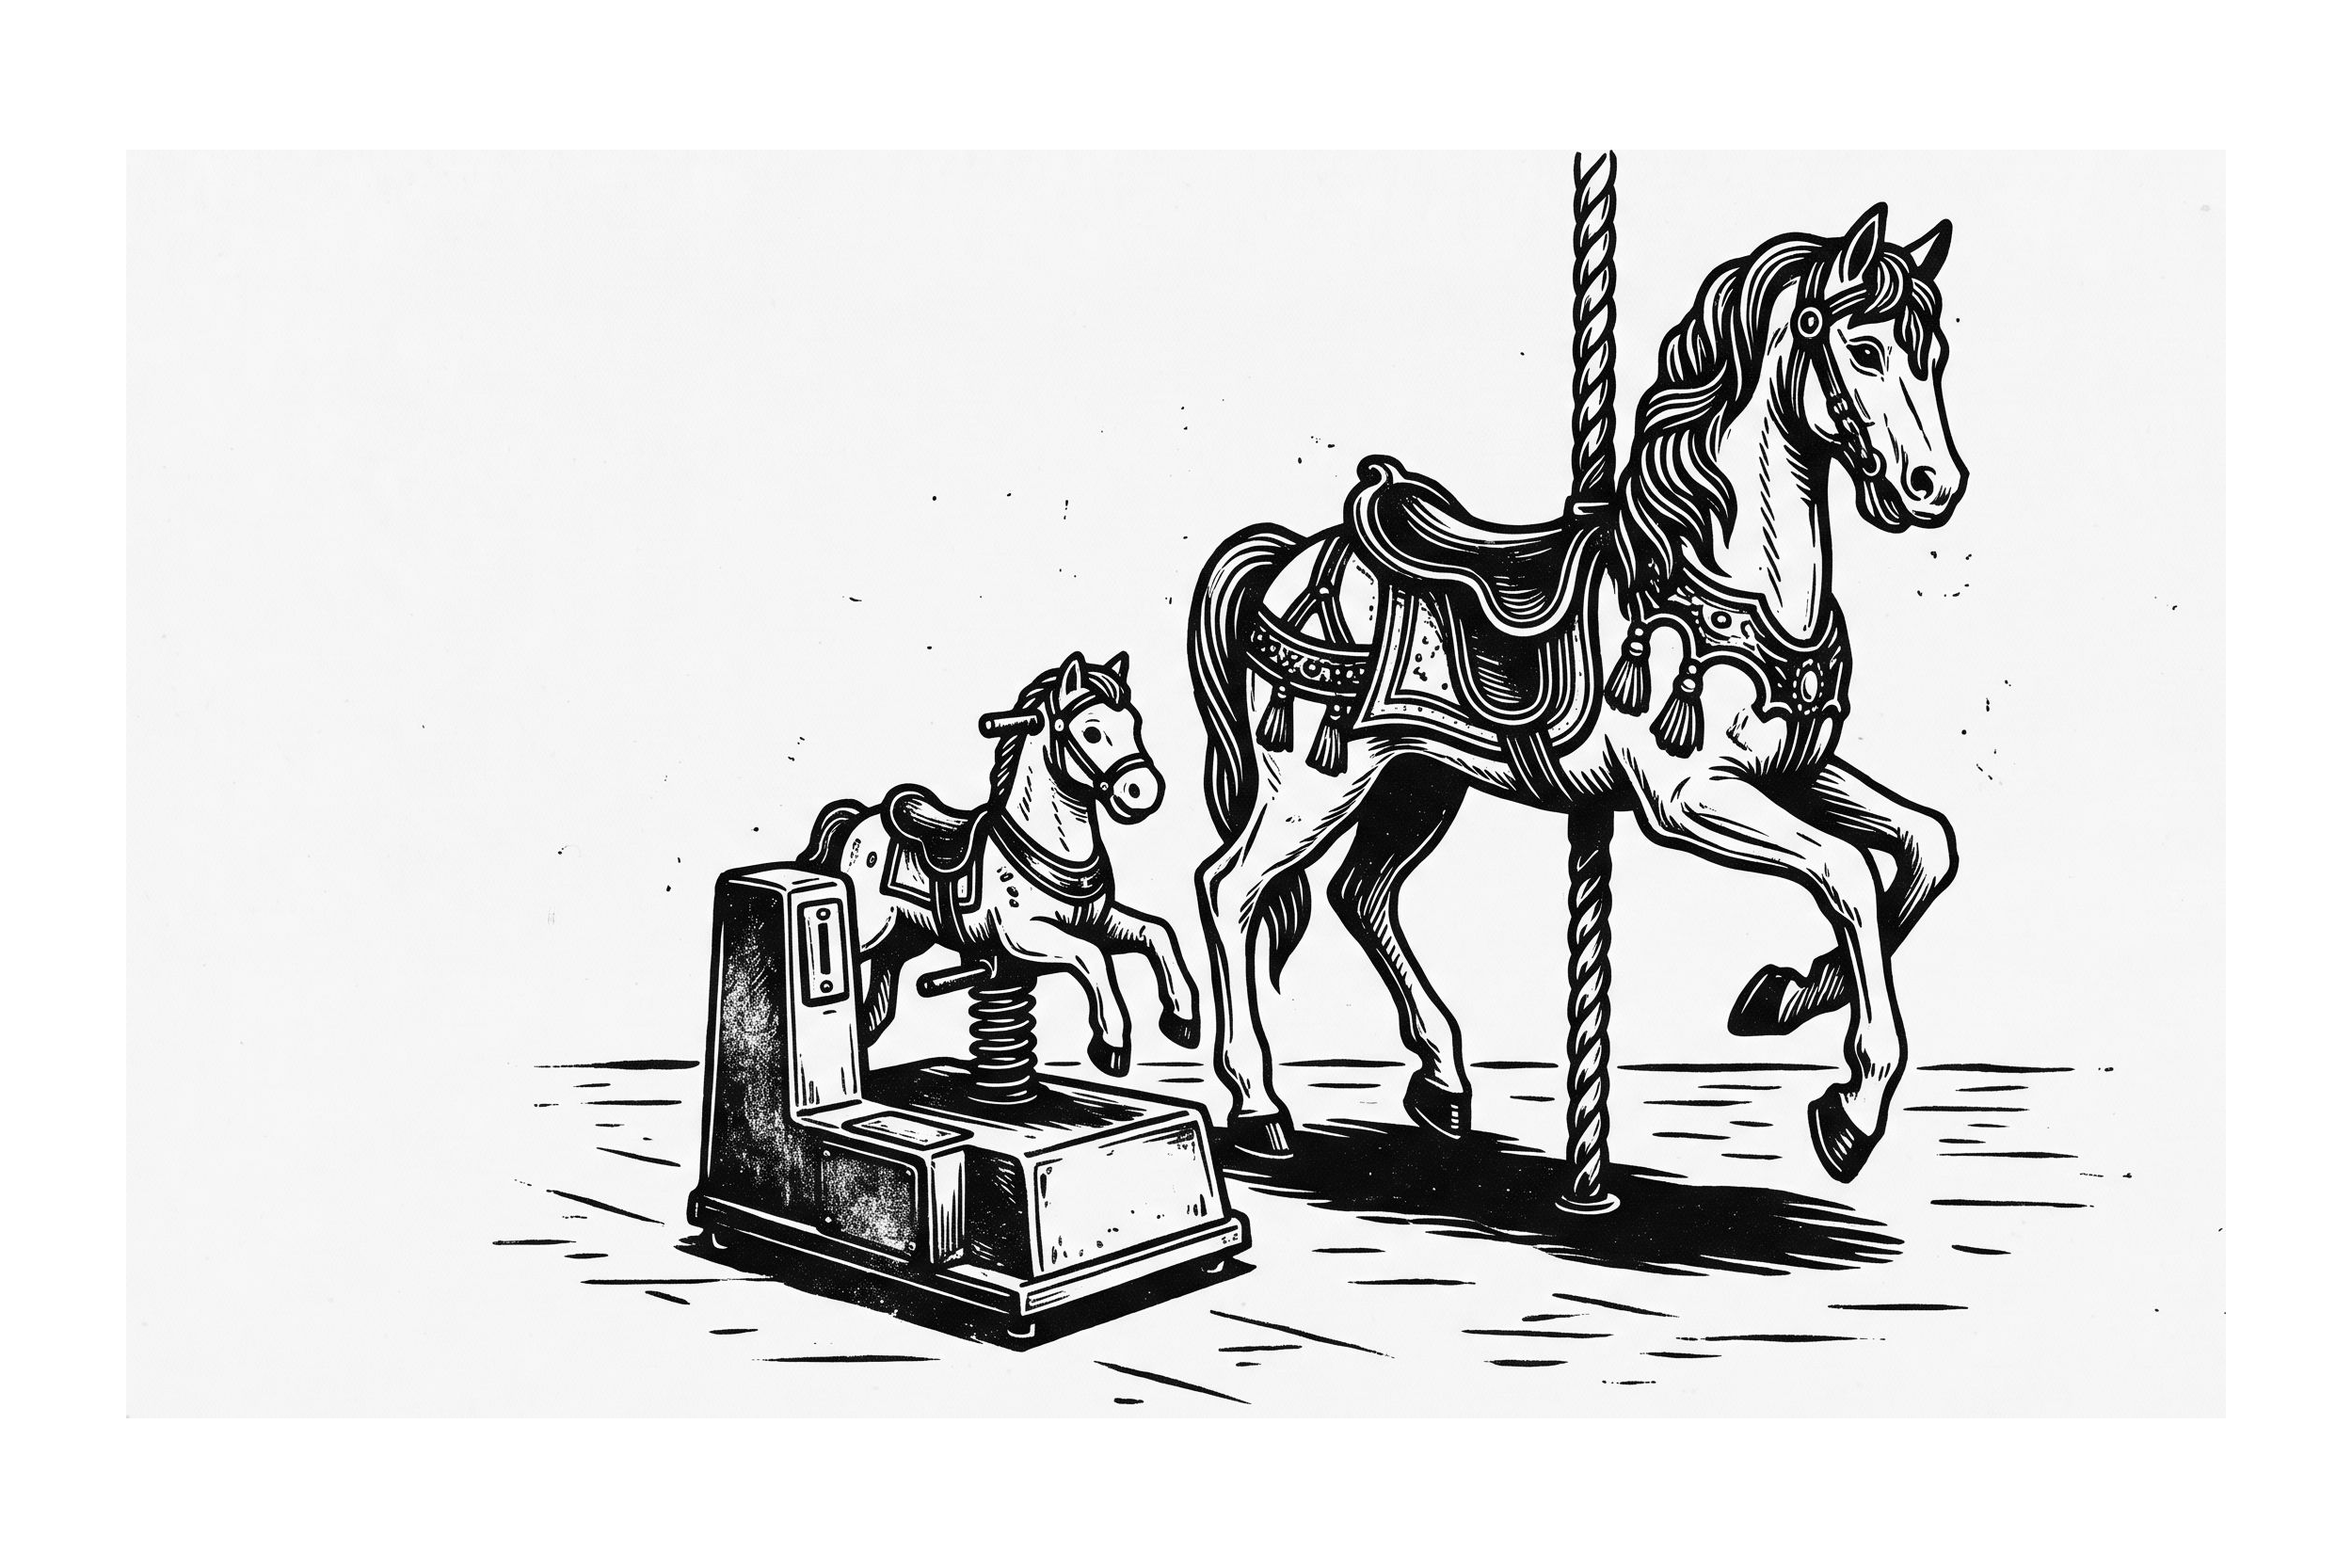
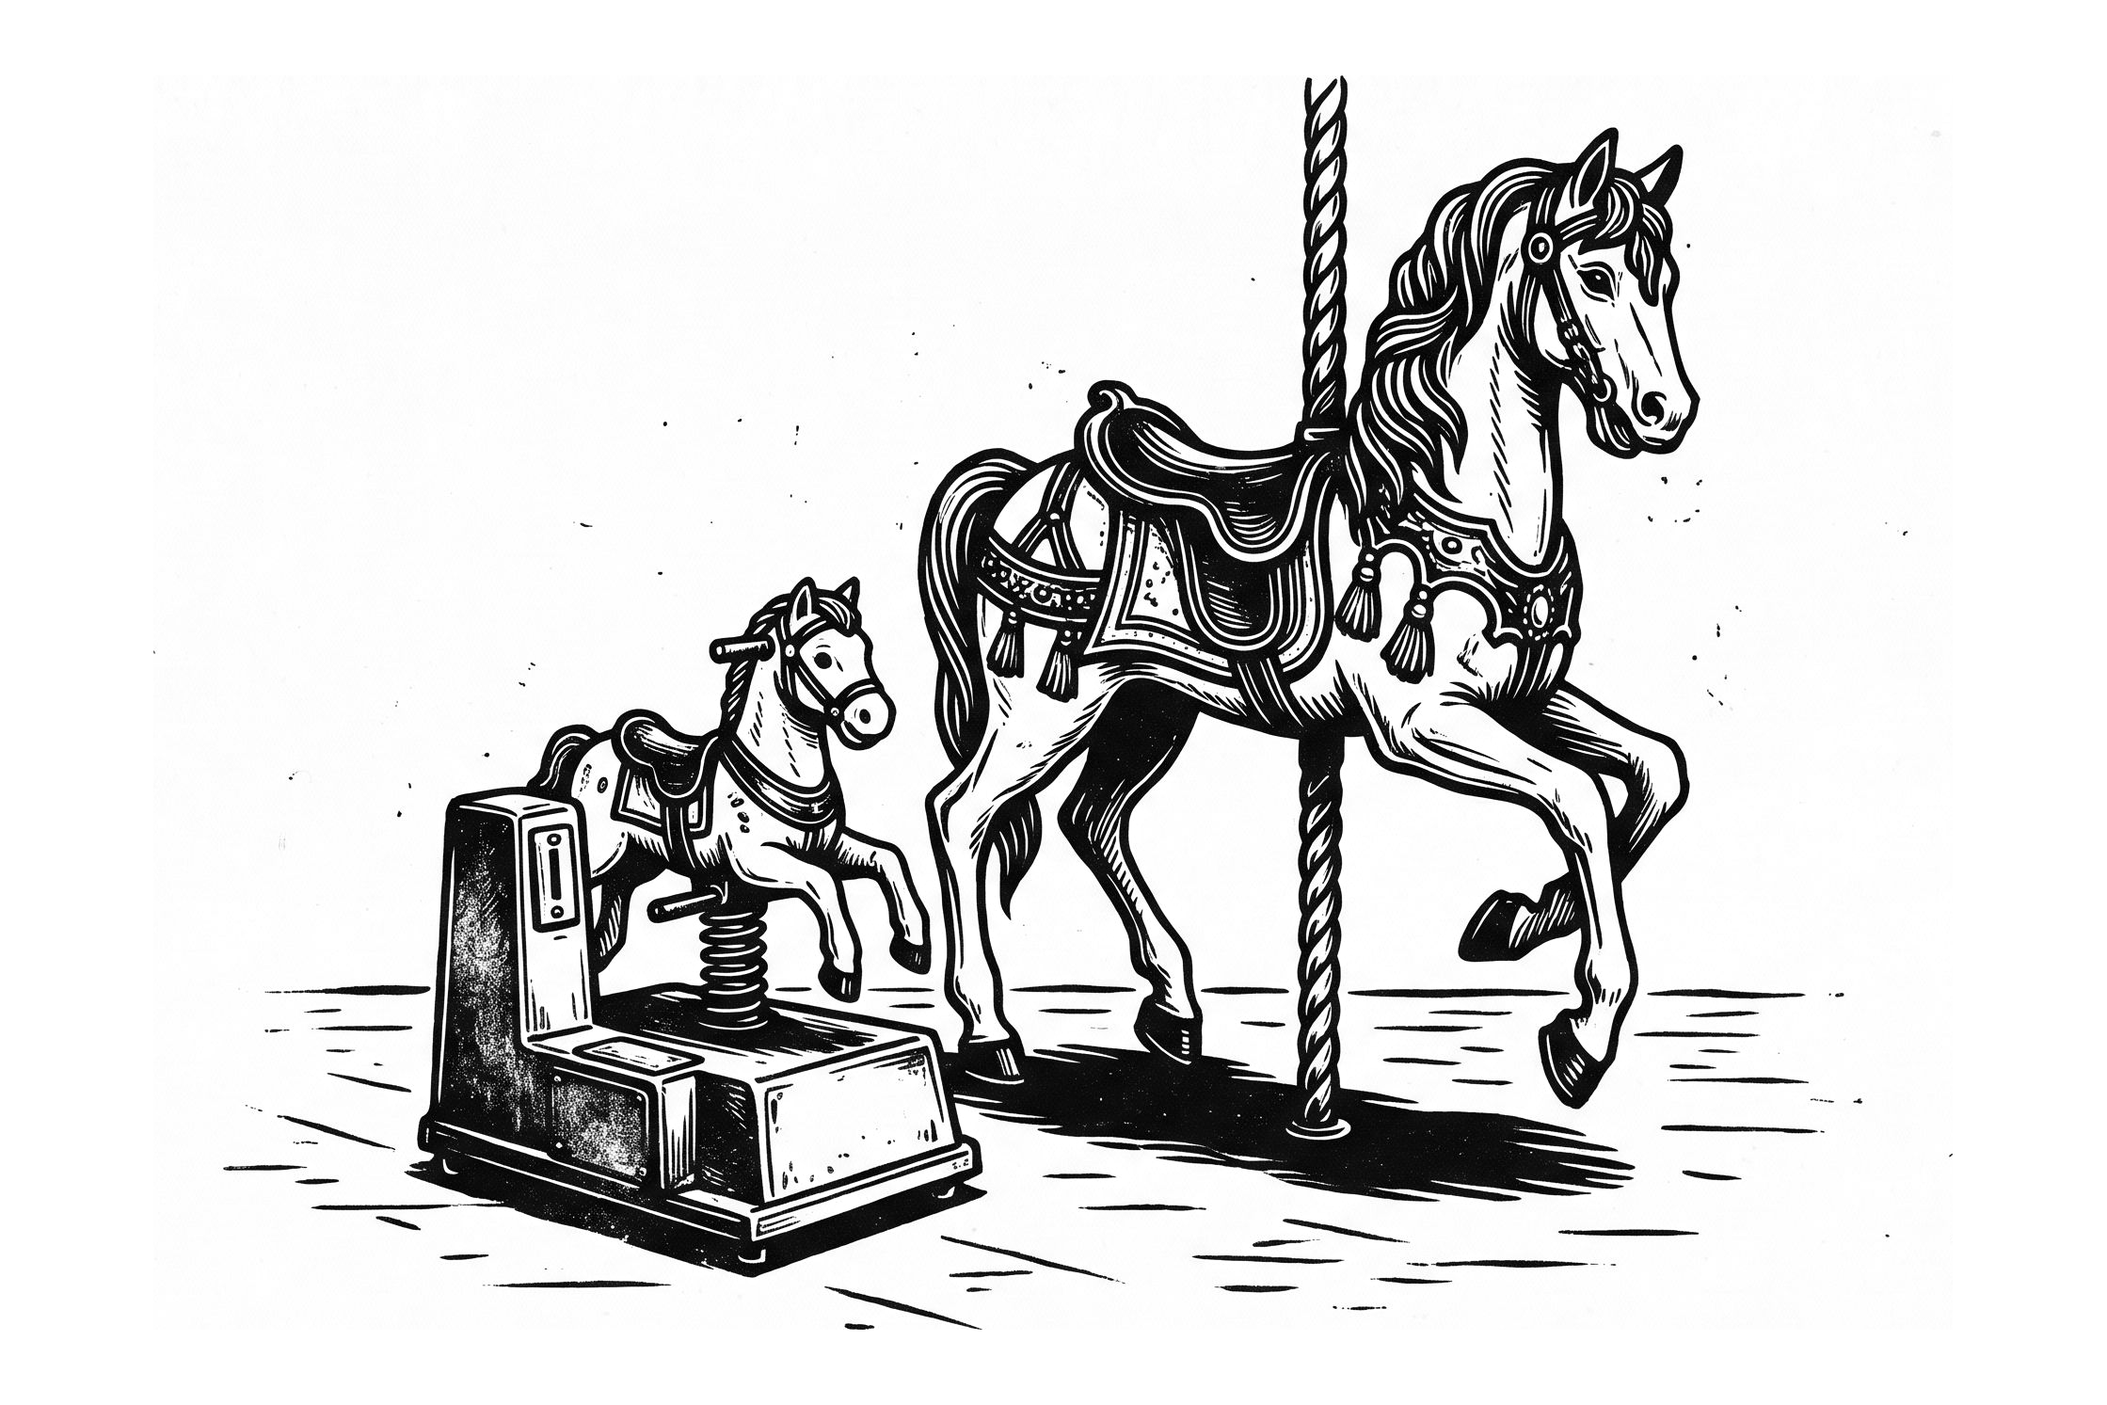
Illustrations: lift paper tone to white so padding blends; drop unused style-test PNGs
Claude-Session: https://claude.ai/code/session_01F1HGFPLSMtCizxXTdMJRvJ

Changed region(s): [[0.1233, 0.0616, 0.8937, 0.9243], [0.4006, 0.9243, 0.4623, 0.9551]]

diff --git a/scripts/art/import.ts b/scripts/art/import.ts
@@ -39,6 +39,20 @@ const model = existsSync(modelFile)
   ? readFileSync(modelFile, "utf8").trim()
   : null;
 
+// The paper's gray level: the most common light tone that isn't already pure white.
+async function paperTone(src: string): Promise<number> {
+  const { data } = await sharp(src)
+    .flatten({ background: "#ffffff" })
+    .grayscale()
+    .raw()
+    .toBuffer({ resolveWithObject: true });
+  const counts = new Array<number>(256).fill(0);
+  for (const v of data) counts[v]++;
+  let best = 180;
+  for (let v = 181; v < 255; v++) if (counts[v] > counts[best]) best = v;
+  return counts[best] > data.length * 0.02 ? best : 255;
+}
+
 mkdirSync(OUT_DIR, { recursive: true });
 const files = readdirSync(args.dir).filter((f) =>
   [".png", ".jpg", ".jpeg", ".webp"].includes(extname(f).toLowerCase()),
@@ -50,10 +64,13 @@ for (const f of files) {
   const src = join(args.dir, f);
   // Trim the bare paper the model leaves around the print, then pad it back out with
   // white to 3:2 with an even margin, so every image sits the same way on the page.
+  // The model's paper is off-white; lift it to pure white so the padding doesn't show.
+  const paper = await paperTone(src);
   const trimmed = await sharp(src)
+    .flatten({ background: "#ffffff" })
     .grayscale()
     .toColourspace("b-w")
-    .flatten({ background: "#ffffff" })
+    .linear(255 / paper, 0)
     .trim({ background: "#ffffff", threshold: 40 })
     .toBuffer({ resolveWithObject: true });
   const { width: tw, height: th } = trimmed.info;
